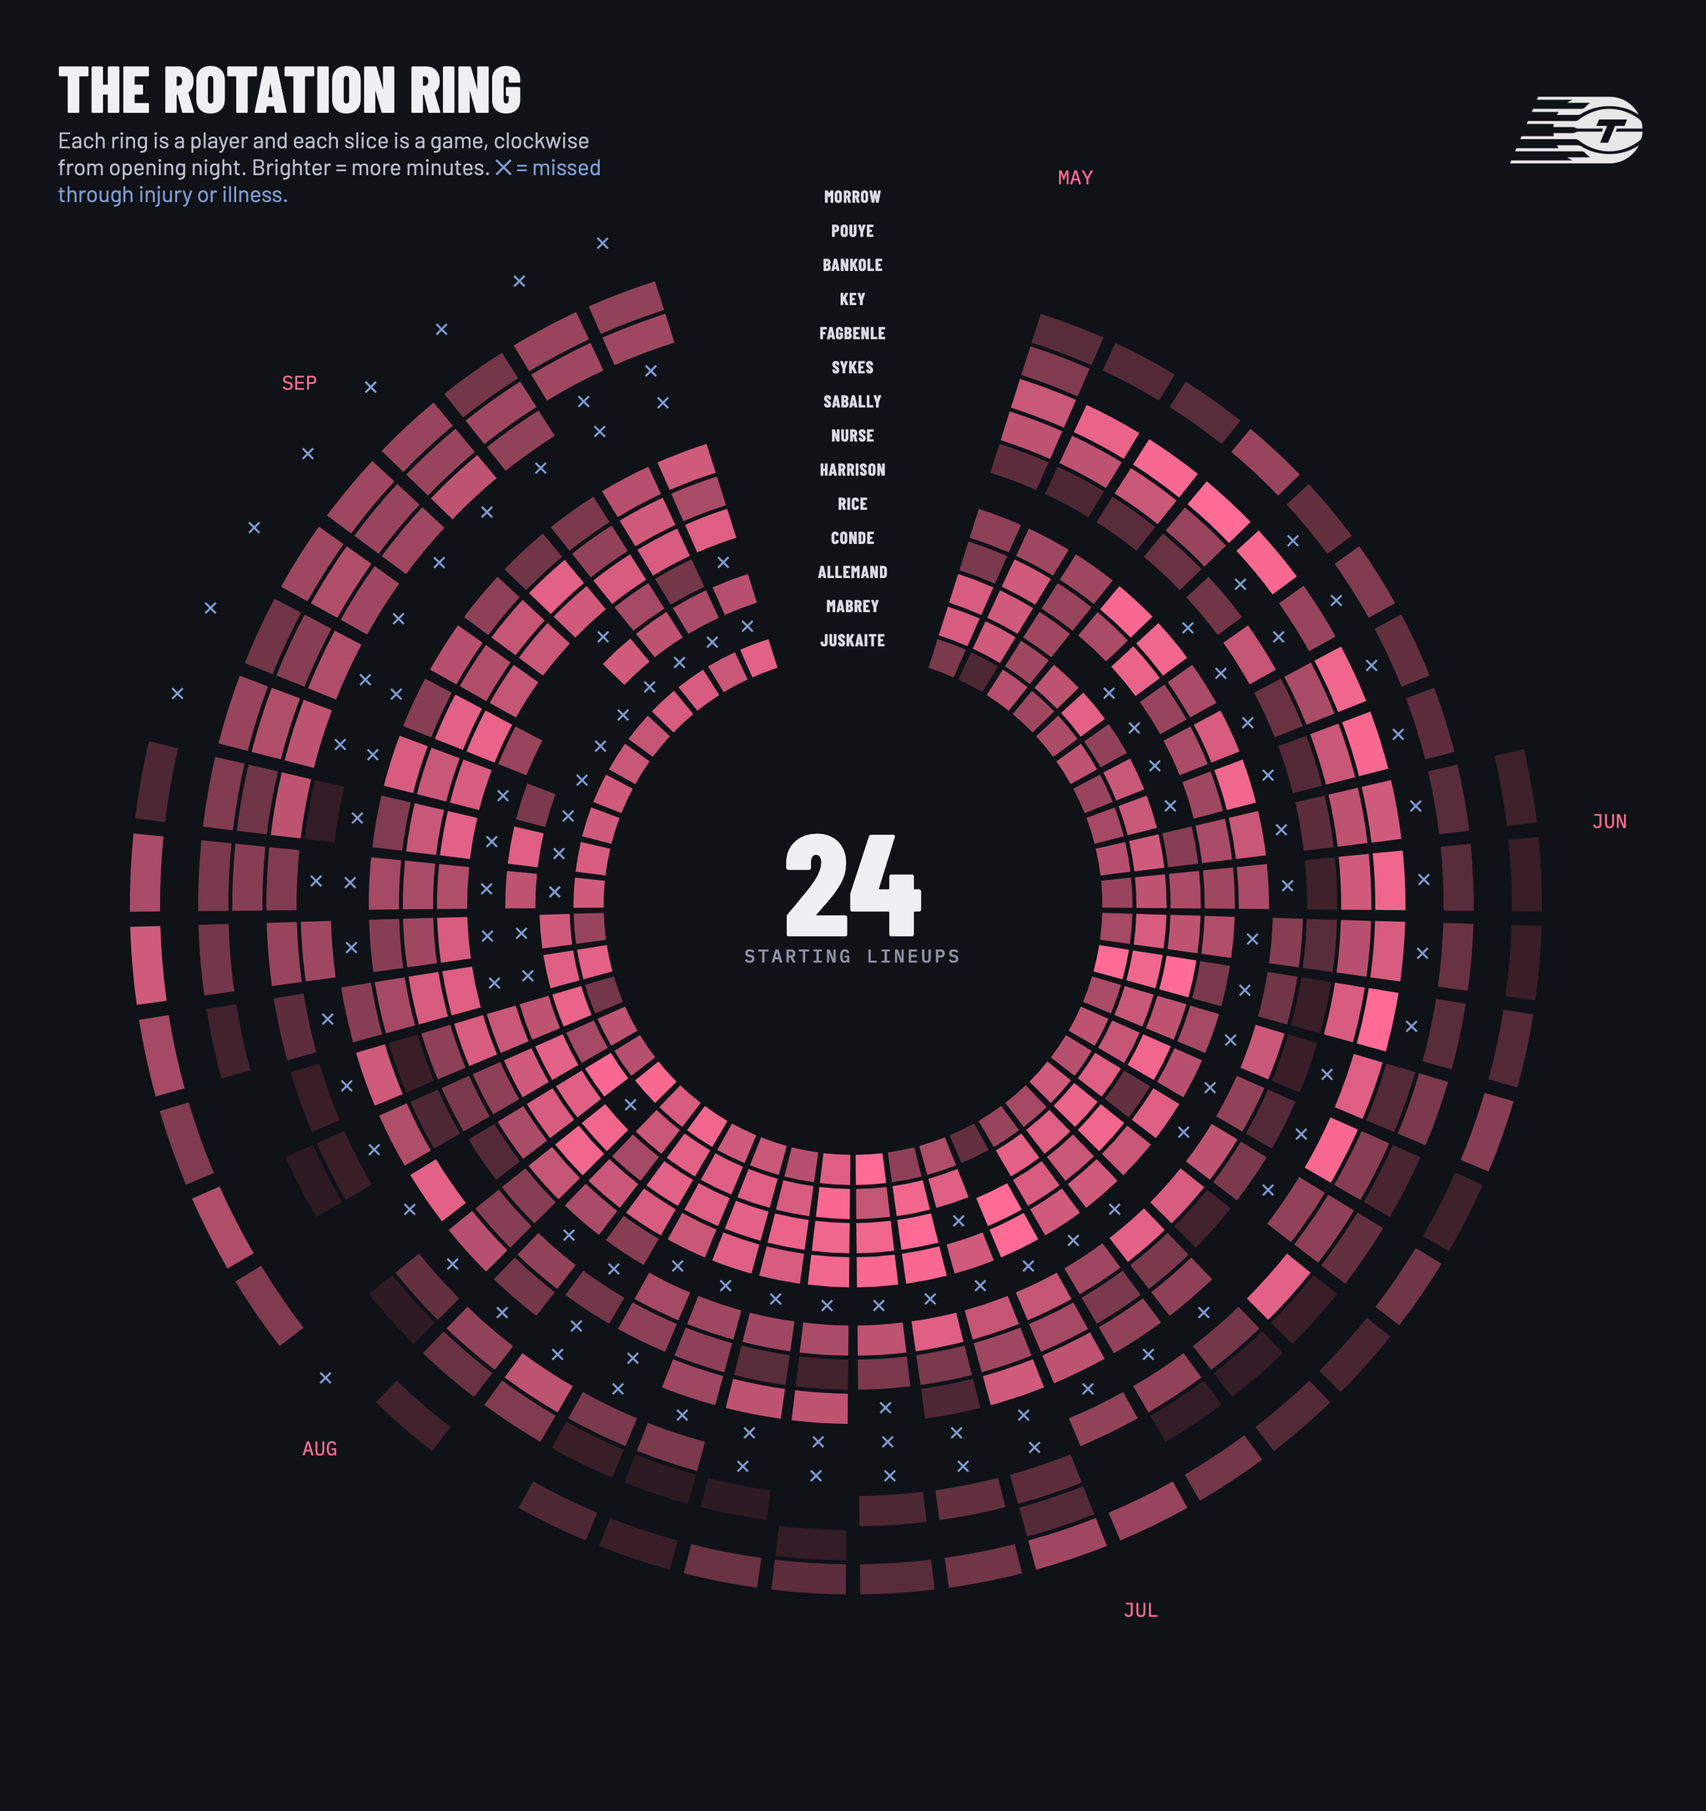
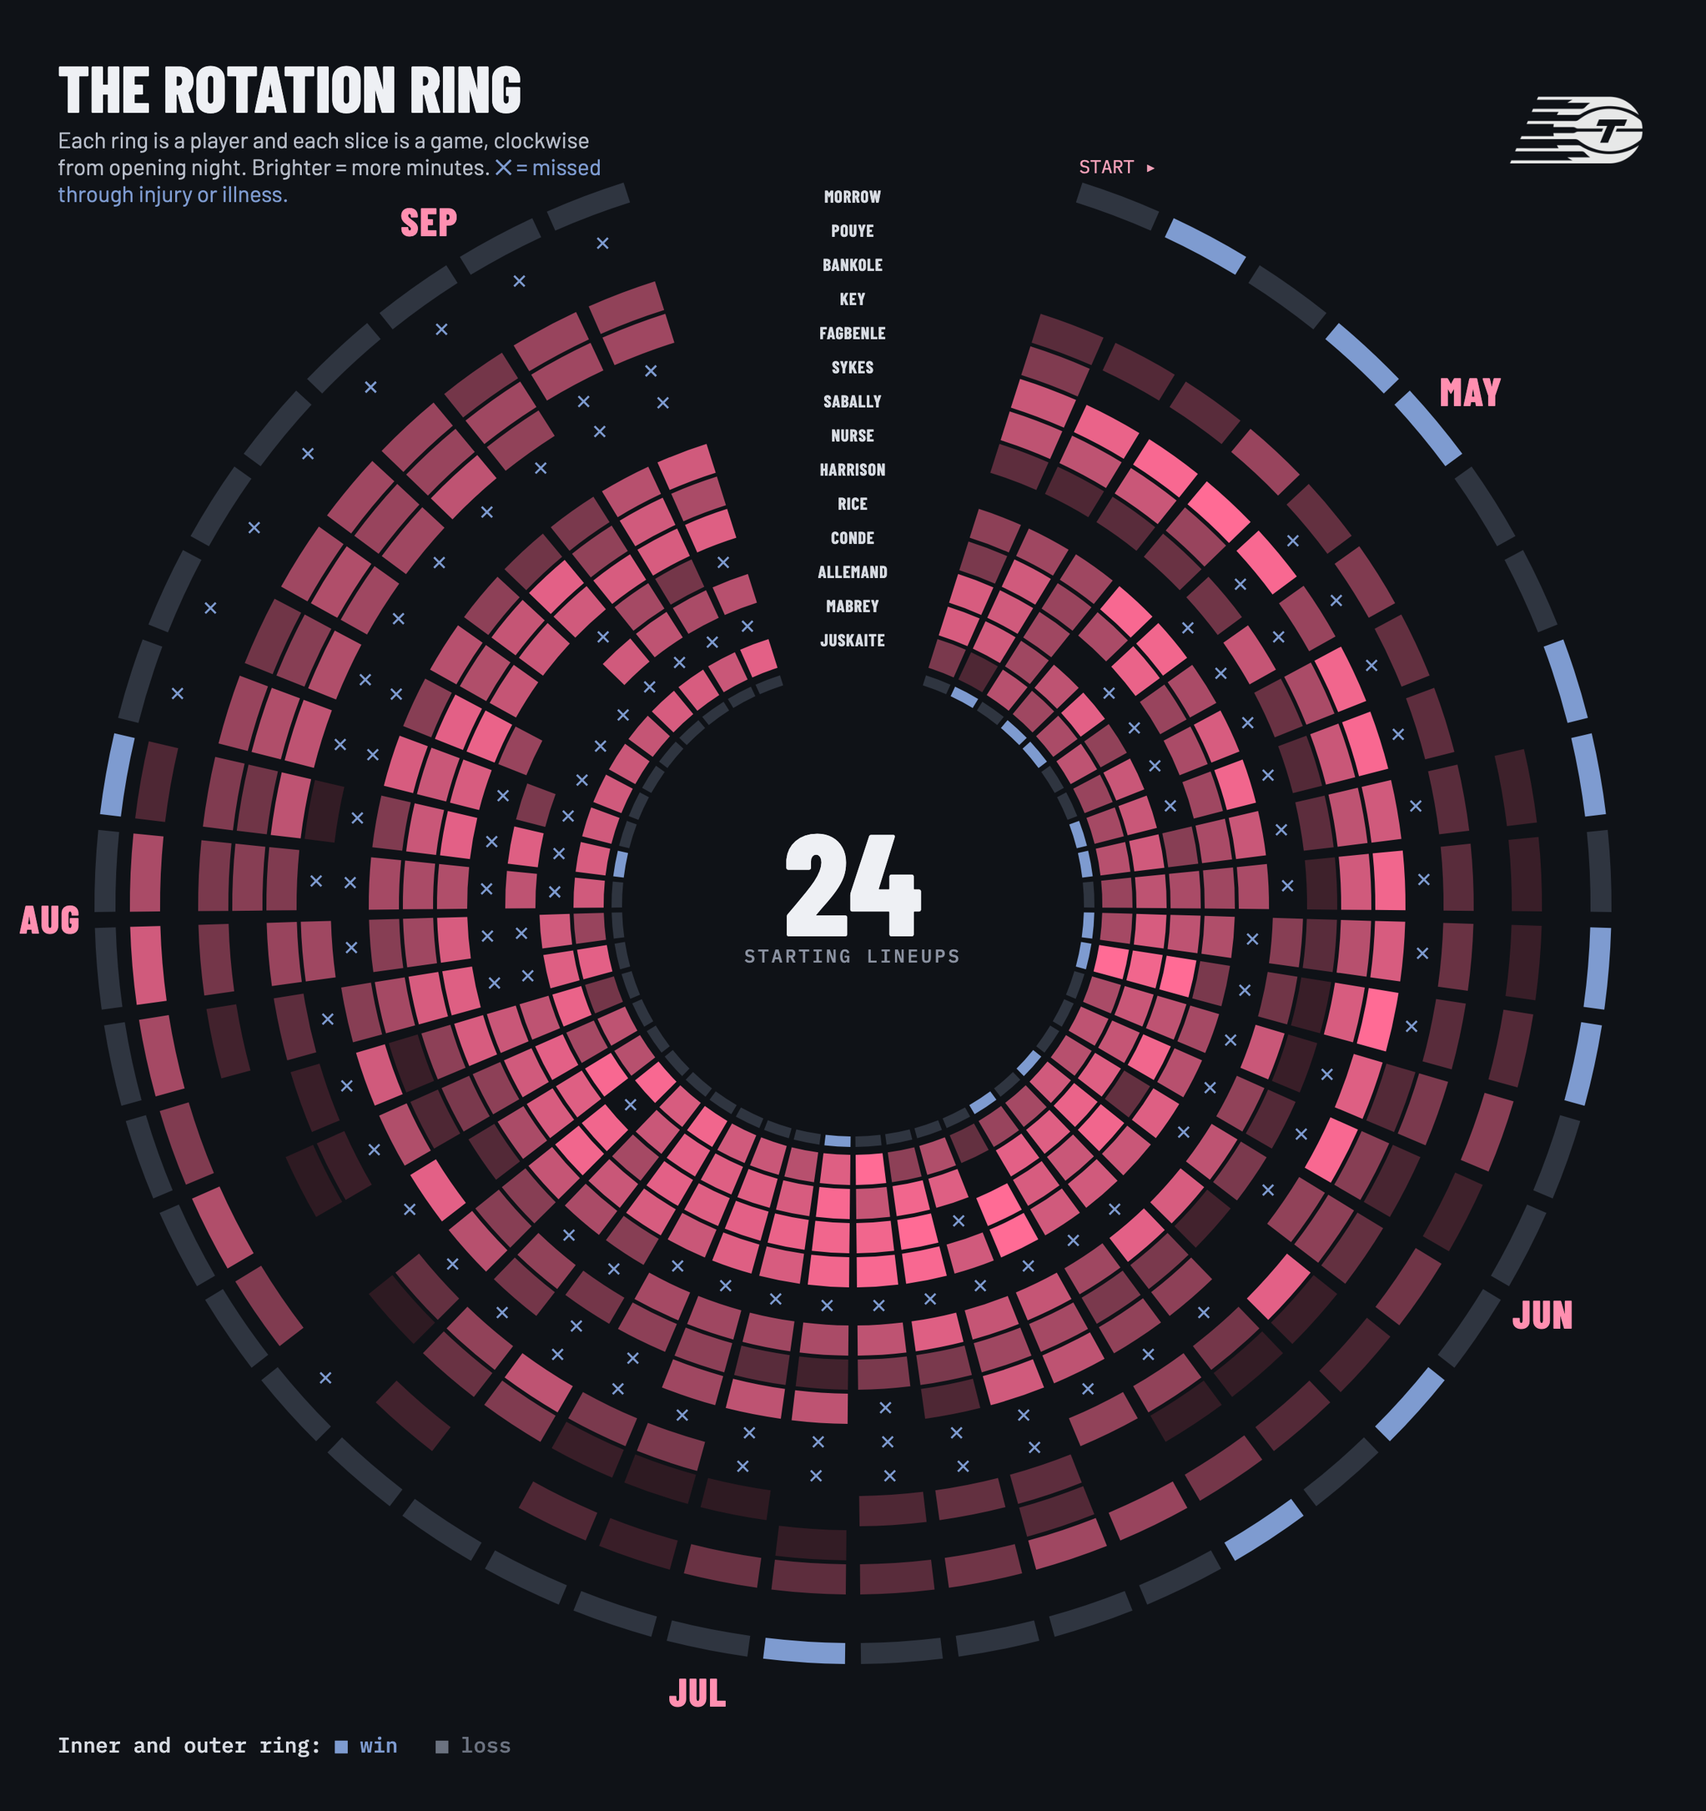
README art: bigger months, start marker, win/loss rings on the rotation ring

diff --git a/readme_art/make_art.py b/readme_art/make_art.py
@@ -144,9 +144,9 @@ def banner():
 # ---------------------------------------------------------------------------
 
 def season_ring():
-    S = 1200          # picture width
-    HT = 1380         # picture height (taller so the title sits above the ring)
-    cx, cy = S / 2, 770
+    S = 1320          # picture width (room for the month labels outside the logos)
+    HT = 1500         # picture height (taller so the title sits above the ring)
+    cx, cy = S / 2, 830
     base = 285      # radius of the "zero" circle
     scale = 4.0     # pixels per point of margin (a 35-point loss reaches 425 px, inside the score labels at 470)
     parts = []
@@ -173,16 +173,23 @@ def season_ring():
         tx, ty = cx + 470 * np.cos(a), cy + 470 * np.sin(a)
         parts.append(f'<text x="{tx:.1f}" y="{ty + 4:.1f}" text-anchor="middle" font-family="IBM Plex Mono" font-size="11" '
                      f'fill="{"#c9d4ea" if g.margin > 0 else "#8a91a0"}">{g.team_score}-{g.opponent_team_score}</text>')
-    # month labels inside the ring, placed at each month's first game
-    seen = set()
-    for i, g in games.iterrows():
-        mon = g.game_date.strftime("%b").upper()
-        if mon in seen:
-            continue
-        seen.add(mon)
-        a = np.radians(-90 + i * 360 / n)
-        mx, my = cx + 574 * np.cos(a), cy + 574 * np.sin(a)
-        parts.append(f'<text x="{mx:.1f}" y="{my + 5:.1f}" text-anchor="middle" font-family="IBM Plex Mono" font-size="14" font-weight="500" fill="#d0587c">{mon}</text>')
+    # months: a thin arc outside the logos covering each month's games, with a big label in the middle,
+    # so it's obvious where the season starts and which way it goes
+    months = games.groupby(games.game_date.dt.strftime("%b").str.upper(), sort=False).apply(lambda d: (d.index.min(), d.index.max()))
+    for k, (mon, (i0, i1)) in enumerate(months.items()):
+        a0, a1 = np.radians(-90 + i0 * 360 / n + 1), np.radians(-90 + (i1 + 1) * 360 / n - 1)
+        ra = 560
+        big = int((a1 - a0) > np.pi)
+        parts.append(f'<path d="M {cx + ra * np.cos(a0):.1f} {cy + ra * np.sin(a0):.1f} A {ra} {ra} 0 {big} 1 {cx + ra * np.cos(a1):.1f} {cy + ra * np.sin(a1):.1f}" '
+                     f'fill="none" stroke="#d0587c" stroke-width="3" opacity="0.7"/>')
+        am = (a0 + a1) / 2
+        mx, my = cx + 602 * np.cos(am), cy + 602 * np.sin(am)
+        parts.append(f'<text x="{mx:.1f}" y="{my + 10:.1f}" text-anchor="middle" font-family="Barlow Condensed" font-size="30" font-weight="800" fill="#f0a0b8" letter-spacing="1">{mon}</text>')
+    # start marker: a small arrow at opening night pointing clockwise
+    a_s = np.radians(-90 + 0.15 * 360 / n)
+    sx, sy = cx + 560 * np.cos(a_s), cy + 560 * np.sin(a_s)
+    parts.append(f'<path d="M {sx - 6:.1f} {sy - 9:.1f} L {sx + 8:.1f} {sy:.1f} L {sx - 6:.1f} {sy + 9:.1f} Z" fill="#f0a0b8"/>')
+    parts.append(f'<text x="{sx - 14:.1f}" y="{sy + 5:.1f}" text-anchor="end" font-family="IBM Plex Mono" font-size="14" fill="#f0a0b8">START</text>')
     avg = games.margin.mean()
     html = f"""
     <div style="width:{S}px;height:{HT}px;background:#12161d;position:relative;font-family:Barlow,sans-serif;color:#eef0f4">
@@ -527,6 +534,15 @@ def rotation_ring():
         return (f"M {p[0][0]:.1f} {p[0][1]:.1f} A {r_out} {r_out} 0 0 1 {p[1][0]:.1f} {p[1][1]:.1f} "
                 f"L {p[2][0]:.1f} {p[2][1]:.1f} A {r_in} {r_in} 0 0 0 {p[3][0]:.1f} {p[3][1]:.1f} Z")
 
+    # wins and losses: a solid ring outside and a thin ring inside the players (blue = win, dark = loss),
+    # so each game's result frames its whole slice
+    r_last = r0 + len(order) * ring
+    for i, g in games.iterrows():
+        a0 = gap_deg / 2 + i * span + 0.6
+        a1 = a0 + span - 1.2
+        col = "#7e9bd0" if g.margin > 0 else "#2f3540"
+        parts.append(f'<path d="{wedge(r_last + 8, r_last + 24, a0, a1)}" fill="{col}"/>')
+        parts.append(f'<path d="{wedge(r0 - 14, r0 - 6, a0, a1)}" fill="{col}"/>')
     for j, name in enumerate(order):
         r_in = r0 + j * ring
         r_out = r_in + ring - 3
@@ -552,17 +568,16 @@ def rotation_ring():
         ny = cy - (r_in + r_out) / 2 + 4
         parts.append(f'<text x="{cx}" y="{ny:.1f}" text-anchor="middle" font-family="Barlow Condensed" font-weight="700" '
                      f'font-size="13" fill="#d7dbe2" letter-spacing="0.5">{name.split()[-1].upper()}</text>')
-    # month labels around the outside
-    seen = set()
-    for i, g in games.iterrows():
-        mon = g.game_date.strftime("%b").upper()
-        if mon in seen:
-            continue
-        seen.add(mon)
-        a = np.radians(gap_deg / 2 + i * span - 90)
-        rr = r0 + len(order) * ring + 26
-        parts.append(f'<text x="{cx + rr * np.cos(a):.1f}" y="{cy + rr * np.sin(a) + 5:.1f}" text-anchor="middle" '
-                     f'font-family="IBM Plex Mono" font-size="15" fill="#ff6b95">{mon}</text>')
+    # month labels around the outside, big, in the middle of each month's games
+    months = games.groupby(games.game_date.dt.strftime("%b").str.upper(), sort=False).apply(lambda d: (d.index.min(), d.index.max()))
+    for mon, (i0, i1) in months.items():
+        a = np.radians(gap_deg / 2 + (i0 + i1 + 1) / 2 * span - 90)
+        rr = r_last + 58
+        parts.append(f'<text x="{cx + rr * np.cos(a):.1f}" y="{cy + rr * np.sin(a) + 10:.1f}" text-anchor="middle" '
+                     f'font-family="Barlow Condensed" font-weight="800" font-size="30" letter-spacing="1" fill="#ff8fb0">{mon}</text>')
+    # start marker at opening night (just right of the names gap)
+    a_s = np.radians(gap_deg / 2 - 90)
+    parts.append(f'<text x="{cx + (r_last + 15) * np.cos(a_s) + 6:.1f}" y="{cy + (r_last + 15) * np.sin(a_s) - 14:.1f}" font-family="IBM Plex Mono" font-size="14" fill="#f0a0b8">START ▸</text>')
     lineups = summary["rotation-lab"]["lineups"]
     html = f"""
     <div style="width:{S}px;height:{S + 80}px;background:#0f1217;position:relative;color:#eef0f4;font-family:Barlow,sans-serif">
@@ -575,6 +590,9 @@ def rotation_ring():
         <div style="font:800 50px 'Barlow Condensed';text-transform:uppercase">The rotation ring</div>
         <div style="font:400 17px Barlow;color:#b7bdc9;max-width:420px">Each ring is a player and each slice is a game, clockwise from opening night. Brighter = more minutes. <span style="color:#7e9bd0">✕ = missed through injury or illness.</span></div>
       </div>
+      <div style="position:absolute;left:44px;bottom:40px;font:500 16px 'IBM Plex Mono';color:#d7dbe2">
+        Inner and outer ring: <span style="color:#7e9bd0">■ win</span> &nbsp; <span style="color:#6b7280">■ loss</span>
+      </div>
       <img src="{uri(LOGOS / 'tor_white.png')}" style="position:absolute;right:44px;top:44px;width:110px;opacity:.9">
     </div>"""
     render("rotation-ring", html, S, S + 80)
@@ -584,67 +602,87 @@ def rotation_ring():
 # 10. Shot fans: where each player shoots from, as a polar "fan"
 # ---------------------------------------------------------------------------
 
+def cells(s):
+    """Direction (6 slices of 30 degrees), distance band and points for each shot in s."""
+    dx, dy = s.coordinate_x_raw.astype(float) - 25, s.coordinate_y_raw.astype(float)
+    dist = np.hypot(dx, dy)
+    ang = np.degrees(np.arctan2(dy.clip(lower=0), dx))  # 0 = right baseline, 180 = left baseline
+    three = s.points_attempted == 3
+    band = np.where(three, 2, np.where(dist < 4, 0, 1))  # 0 = rim, 1 = midrange two, 2 = three
+    # bigger zones for the "take more / take less" notes (same idea as Shot Lab)
+    zone = np.select([three & (dy <= 3), three, dist < 4, dist < 14], ["Corner 3", "Above-break 3", "Rim", "Short mid"], default="Long mid")
+    return pd.DataFrame({"dir": np.clip((ang // 30).astype(int), 0, 5), "band": band, "zone": zone,
+                         "pts": np.where(s.scoring_play.astype(bool), s.points_attempted, 0)}, index=s.index)
+
+
 def shot_fans():
+    # league points per shot for every direction/distance cell and every zone: the yardstick for each player
+    lg_s = pbp[pbp.shooting_play.astype(bool) & ~pbp.type_text.str.contains("Free Throw")]
+    lg_s = cells(lg_s[(lg_s.coordinate_y_raw <= 28) & lg_s.coordinate_x_raw.between(0, 50)])
+    lg_cell, lg_zone = lg_s.groupby(["dir", "band"]).pts.mean(), lg_s.groupby("zone").pts.mean()
+
+    def heat(d):
+        # diverging colour for points per shot vs league: cold blue, grey near zero, hot orange
+        t_ = max(-1, min(1, d / 0.3))
+        return (f"color-mix(in oklab, #f08a3c {int(100 * t_)}%, #3a3f4a)" if t_ >= 0
+                else f"color-mix(in oklab, #5b8bd8 {int(-100 * t_)}%, #3a3f4a)")
+
     top8 = shots.athlete_name_1.value_counts().head(8).index.tolist()
-    bands = [("Rim", "#ff6b95", 0, 4), ("Midrange", "#b33a55", 4, 22.15), ("Three", "#7e9bd0", 22.15, 99)]
     cards = []
     for name in top8:
-        s = shots[shots.athlete_name_1 == name]
-        dx, dy = s.coordinate_x_raw.astype(float) - 25, s.coordinate_y_raw.astype(float)
-        dist = np.hypot(dx, dy)
-        ang = np.degrees(np.arctan2(dy.clip(lower=0), dx))  # 0 = right baseline, 180 = left baseline
-        nb = 12                                             # 12 directions, 15 degrees each
-        b = np.clip((ang // (180 / nb)).astype(int), 0, nb - 1)
-        three = s.points_attempted == 3
+        c = cells(shots[shots.athlete_name_1 == name])
         W2, H2 = 300, 190
         cx, cy, R = W2 / 2, 170, 150
+        share_max = 0.30                                   # a direction with 30% of shots fills the radius
         paths = []
-        share_max = 0.17                                    # a direction with 17% of shots fills the radius
-        for i in range(nb):
-            inb = b == i
+        for i in range(6):
             inner = 0.0
-            for band, color, lo, hi in bands:
-                if band == "Three":
-                    sel = inb & three
-                elif band == "Rim":
-                    sel = inb & ~three & (dist < 4)
-                else:
-                    sel = inb & ~three & (dist >= 4)
-                share = sel.sum() / len(s)
+            for band in (0, 1, 2):
+                sel = c[(c.dir == i) & (c.band == band)]
+                share = len(sel) / len(c)
                 if share == 0:
                     continue
-                # stack the bands outward, square root so the AREA matches the share
-                r_in = R * np.sqrt(inner / share_max)
+                r_in = R * np.sqrt(inner / share_max)       # square root so the AREA matches the share
                 inner += share
                 r_out = R * np.sqrt(min(inner, share_max) / share_max)
-                # angle 0 = right, 180 = left; in the picture the basket is at the bottom
-                a0, a1 = np.radians(180 - i * 15 - 1), np.radians(180 - (i + 1) * 15 + 1)
+                # fewer than 8 shots in a cell is too few to judge, so it stays plain grey
+                col = heat(sel.pts.mean() - lg_cell.get((i, band), np.nan)) if len(sel) >= 8 else "#2a2f38"
+                a0, a1 = np.radians(180 - i * 30 - 1), np.radians(180 - (i + 1) * 30 + 1)
                 pts = [(cx + r_out * np.cos(a0), cy - r_out * np.sin(a0)), (cx + r_out * np.cos(a1), cy - r_out * np.sin(a1)),
                        (cx + r_in * np.cos(a1), cy - r_in * np.sin(a1)), (cx + r_in * np.cos(a0), cy - r_in * np.sin(a0))]
                 paths.append(f'<path d="M {pts[0][0]:.1f} {pts[0][1]:.1f} A {r_out:.1f} {r_out:.1f} 0 0 1 {pts[1][0]:.1f} {pts[1][1]:.1f} '
-                             f'L {pts[2][0]:.1f} {pts[2][1]:.1f} A {r_in:.1f} {r_in:.1f} 0 0 0 {pts[3][0]:.1f} {pts[3][1]:.1f} Z" fill="{color}"/>')
+                             f'L {pts[2][0]:.1f} {pts[2][1]:.1f} A {r_in:.1f} {r_in:.1f} 0 0 0 {pts[3][0]:.1f} {pts[3][1]:.1f} Z" fill="{col}" stroke="#0f1217" stroke-width="1.5"/>')
         guide = (f'<path d="M {cx - R} {cy} A {R} {R} 0 0 1 {cx + R} {cy}" fill="none" stroke="#2a303b"/>'
                  f'<line x1="{cx - R}" y1="{cy}" x2="{cx + R}" y2="{cy}" stroke="#2a303b"/>'
                  f'<circle cx="{cx}" cy="{cy}" r="4" fill="#eef0f4"/>')
+        # her zones with 20+ shots, compared with the league: the best one to take more of, the worst to take less of
+        z = c.groupby("zone").pts.agg(["size", "mean"])
+        z = z[z["size"] >= 20].assign(d=lambda d: d["mean"] - lg_zone.reindex(d.index))
+        best, worst = z.d.idxmax(), z.d.idxmin()
+        note = lambda k, label, col: (f'<div style="font:500 13px \'IBM Plex Mono\';color:{col}">{label} {k}: {z.loc[k, "mean"]:.2f} pts '
+                                      f'({z.loc[k, "d"]:+.2f} vs WNBA, {int(z.loc[k, "size"])} shots)</div>')
         r = season.loc[name]
         cards.append(f"""
         <div style="background:#151920;border:1px solid #232934;border-radius:14px;padding:18px 18px 14px;display:grid;gap:4px">
           <svg width="{W2}" height="{H2}">{guide}{"".join(paths)}</svg>
           <div style="font:800 26px/1 'Barlow Condensed';text-transform:uppercase;margin-top:6px">{name}</div>
-          <div style="font:400 13px 'IBM Plex Mono';color:#8a91a0">#{r.jersey} · {len(s)} shots · {100 * r.ts:.1f} TS%</div>
+          <div style="font:400 13px 'IBM Plex Mono';color:#8a91a0">{len(c)} shots · {100 * r.ts:.1f} TS%</div>
+          {note(best, "Take more ▲" if z.loc[best, "d"] > 0 else "Best", "#f5a76a")}
+          {note(worst, "Take less ▼", "#86a8e6") if worst != best else ""}
         </div>""")
-    legend = "".join(f'<span style="display:inline-flex;align-items:center;gap:8px"><i style="width:14px;height:14px;background:{c};display:inline-block;border-radius:3px"></i>{n}</span>'
-                     for n, c, _, _ in bands)
+    scale_bar = "".join(f'<i style="width:34px;height:12px;display:inline-block;background:{heat(v)}"></i>' for v in (-0.3, -0.15, 0, 0.15, 0.3))
     html = f"""
-    <div style="width:1600px;height:900px;background:#0f1217;color:#eef0f4;font-family:Barlow,sans-serif;padding:44px 60px;box-sizing:border-box">
-      <div style="display:flex;justify-content:space-between;align-items:end;margin-bottom:26px">
-        <div><div style="font:800 56px/1 'Barlow Condensed';text-transform:uppercase">Shot fans</div>
-        <div style="font:400 17px Barlow;color:#b7bdc9;margin-top:6px">Each fan opens from the basket. Petal = direction, length = share of her shots, colour = distance.</div></div>
-        <div style="display:flex;gap:22px;font:500 15px 'IBM Plex Mono';color:#d7dbe2">{legend}</div>
+    <div style="width:1600px;height:980px;background:#0f1217;color:#eef0f4;font-family:Barlow,sans-serif;padding:44px 60px;box-sizing:border-box">
+      <div style="display:flex;justify-content:space-between;align-items:end;margin-bottom:26px;gap:30px">
+        <div><div style="font:800 56px/1 'Barlow Condensed';text-transform:uppercase">Who should take which shots</div>
+        <div style="font:400 17px Barlow;color:#b7bdc9;margin-top:6px;max-width:900px">Each fan opens from the basket, split into rim, midrange and three. Petal length = how often she shoots from there.
+        Colour = points per shot vs the WNBA from the same spot. Grey = fewer than 8 shots.</div></div>
+        <div style="font:500 14px 'IBM Plex Mono';color:#d7dbe2;display:grid;gap:6px;justify-items:end">
+          <div style="display:flex;align-items:center;gap:8px">colder {scale_bar} hotter</div><div style="color:#8a91a0">−0.3 to +0.3 pts per shot</div></div>
       </div>
       <div style="display:grid;grid-template-columns:repeat(4,1fr);gap:20px">{"".join(cards)}</div>
     </div>"""
-    render("shot-fans", html, 1600, 900)
+    render("shot-fans", html, 1600, 980)
 
 
 # ---------------------------------------------------------------------------
